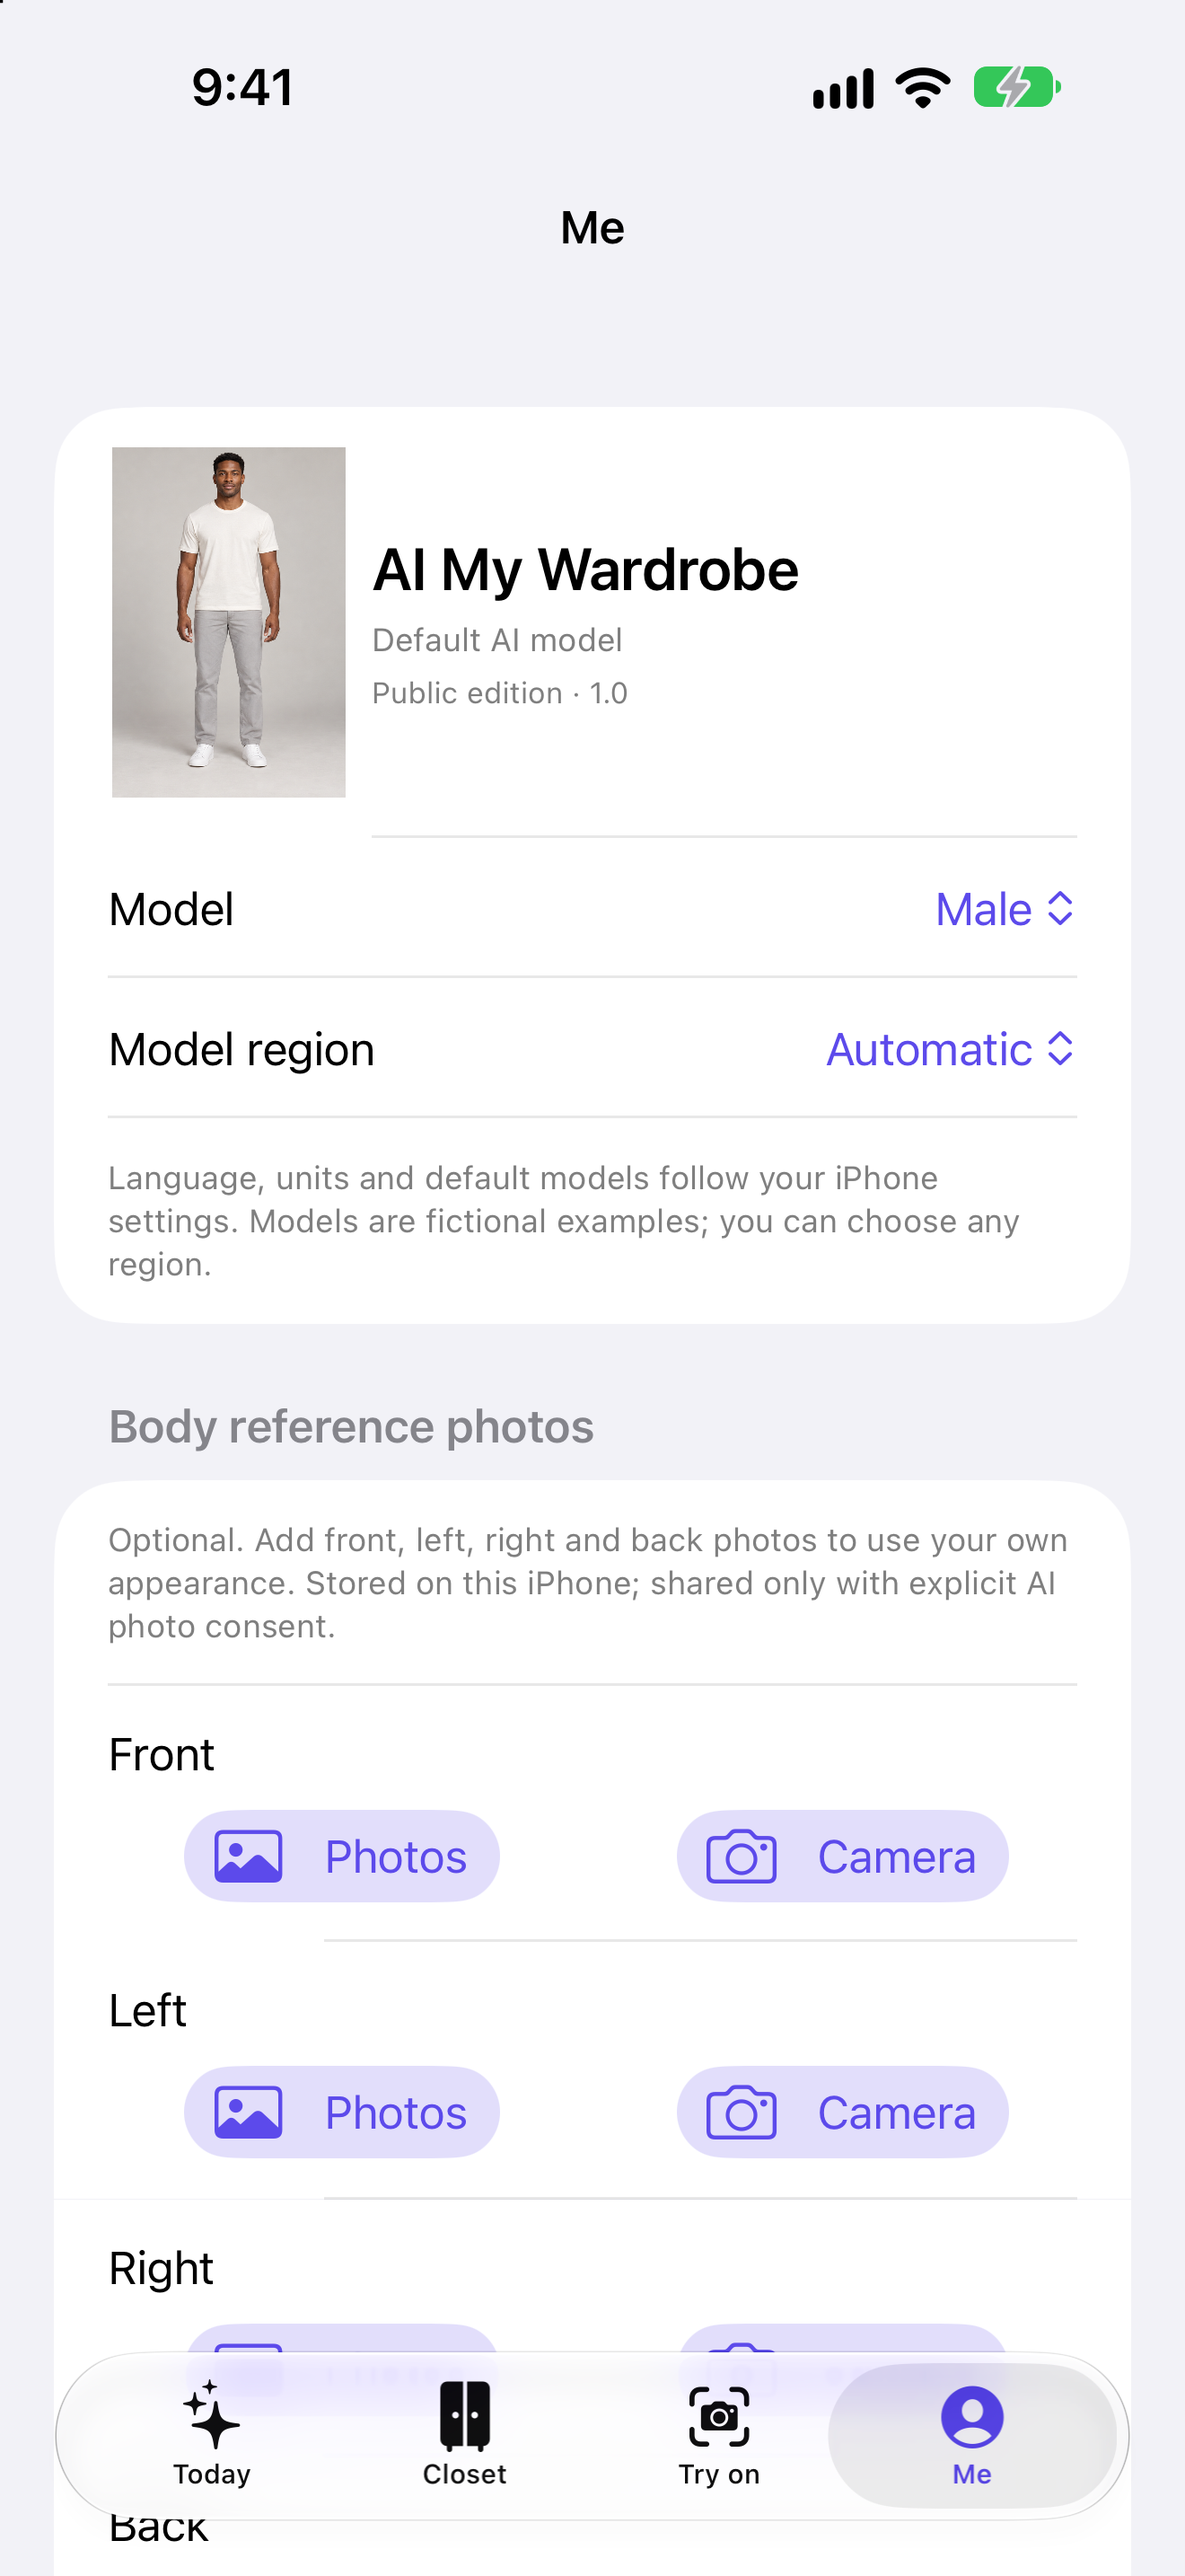
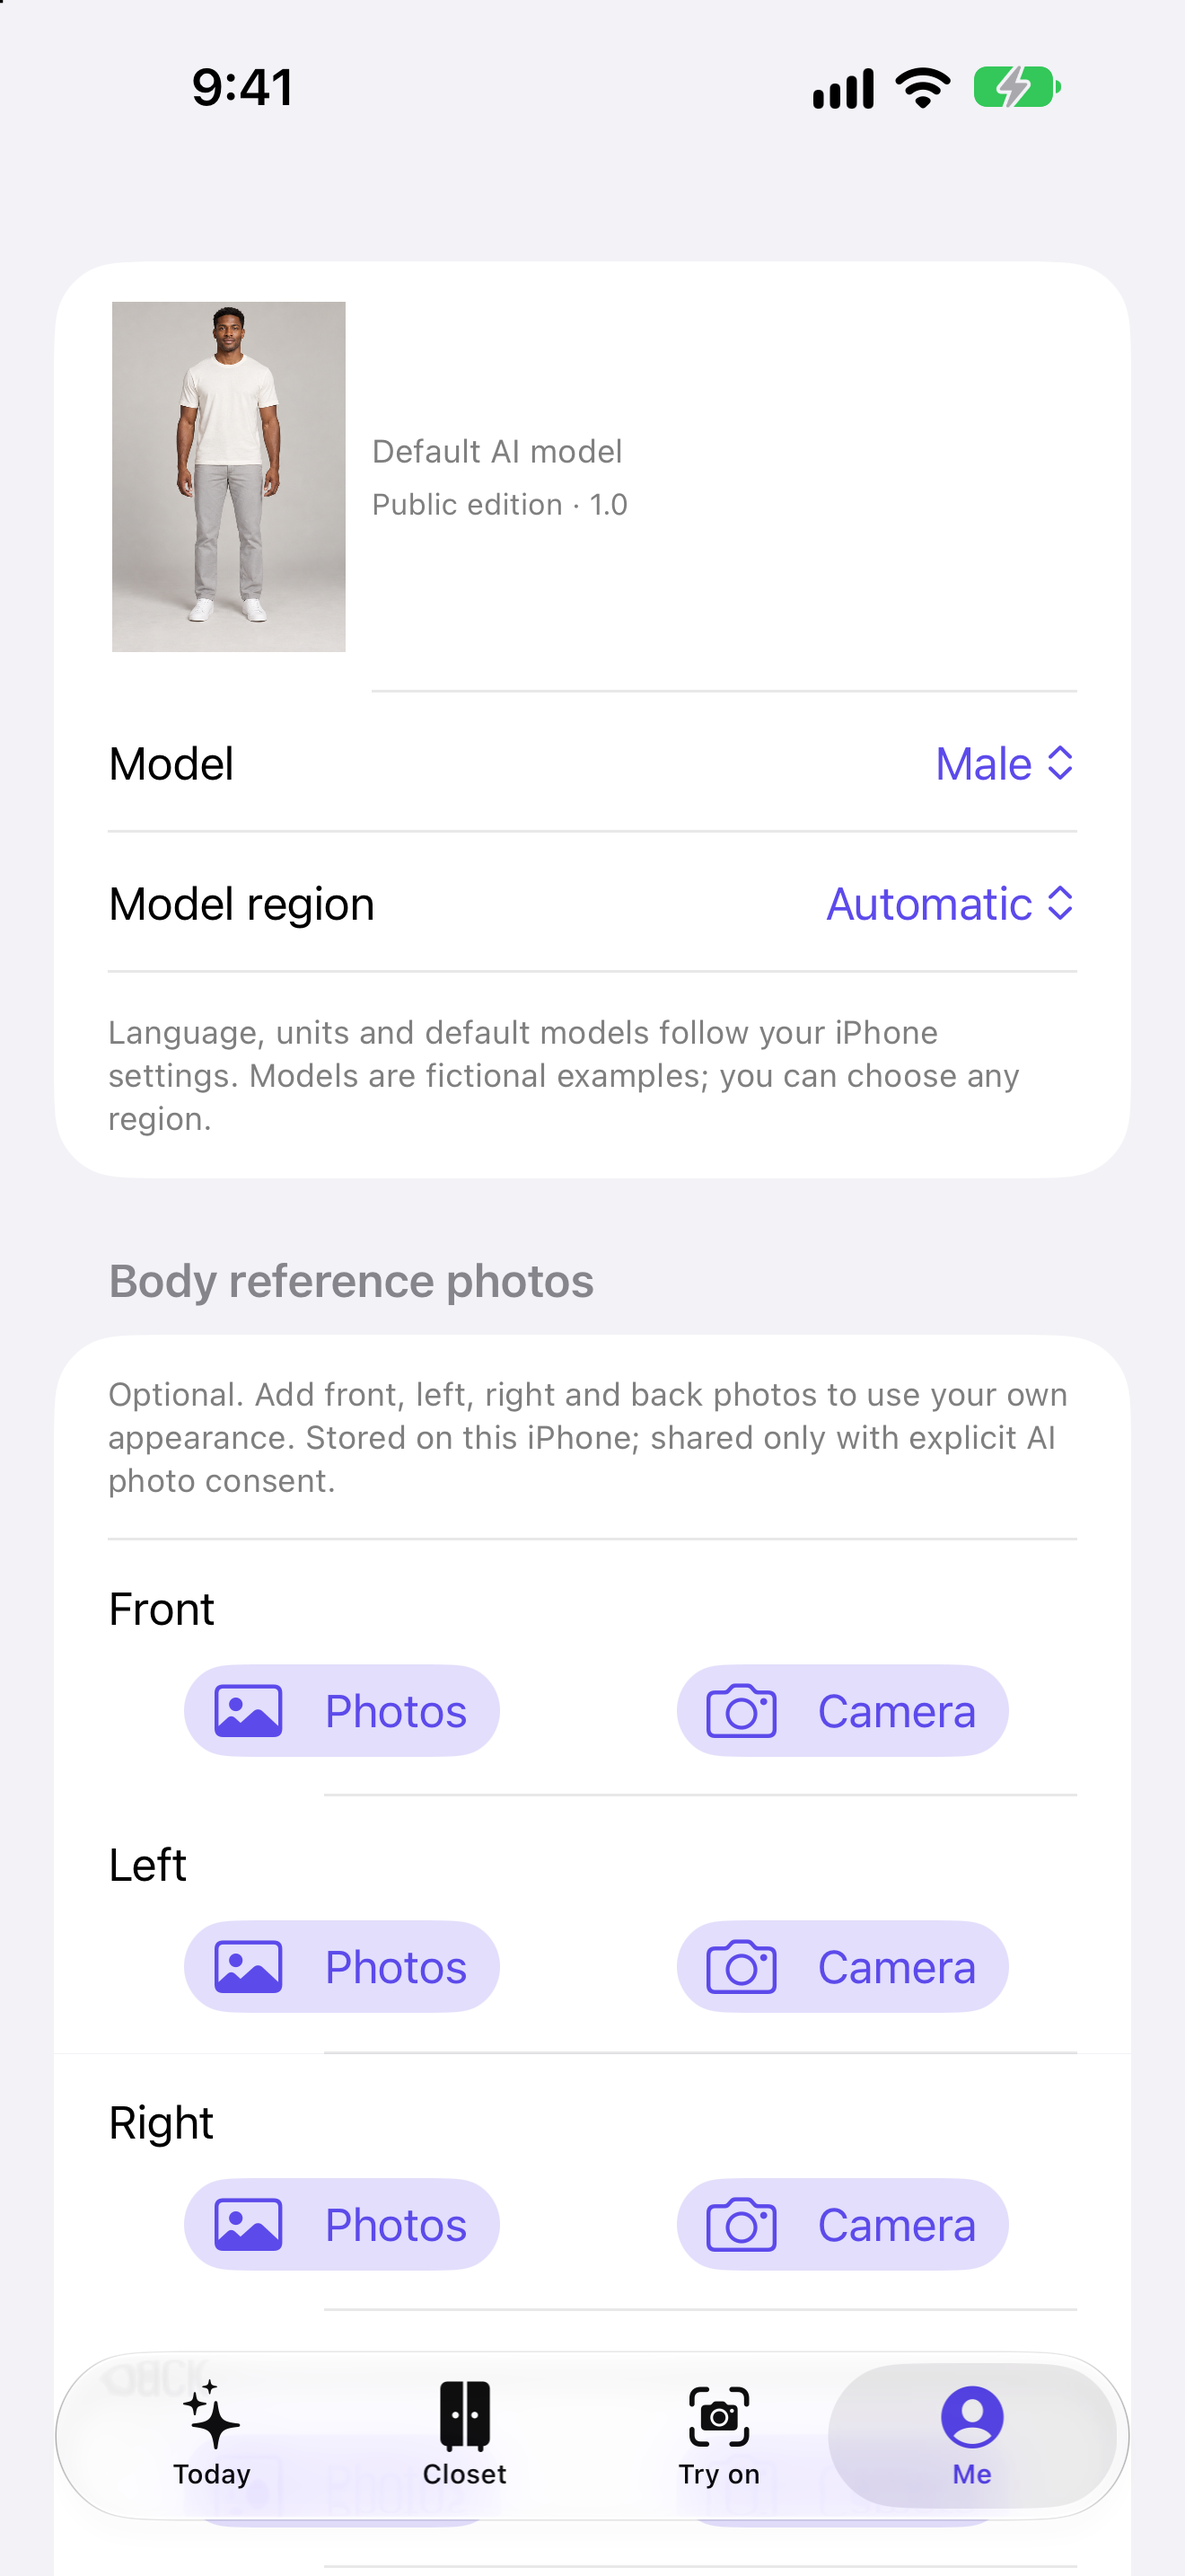
Remove profile headings and verify permission denial, erasure and HEIC import

diff --git a/WardrobeUITests/WardrobeUITests.swift b/WardrobeUITests/WardrobeUITests.swift
@@ -73,6 +73,45 @@ final class WardrobeUITests: XCTestCase {
         checkRealMicrophone(language: "en", region: "en_US")
     }
 
+    @MainActor func testIsolatedDataDeletionAndEmptyCloset() {
+        let app = XCUIApplication()
+        app.launchArguments = ["-ui-testing", "-AppleLanguages", "(en)", "-AppleLocale", "en_US"]
+        app.launch()
+        app.tabBars.buttons.element(boundBy: 1).tap()
+        XCTAssertTrue(app.buttons["closet.item.white-oxford"].waitForExistence(timeout: 5))
+        app.tabBars.buttons.element(boundBy: 3).tap()
+        let erase = app.buttons["profile.erase"]
+        for _ in 0..<6 where !erase.isHittable { app.swipeUp() }
+        XCTAssertTrue(erase.isHittable)
+        erase.tap()
+        let confirm = app.buttons["profile.confirmErase"].firstMatch
+        XCTAssertTrue(confirm.waitForExistence(timeout: 5))
+        confirm.tap()
+        app.tabBars.buttons.element(boundBy: 1).tap()
+        XCTAssertFalse(app.buttons["closet.item.white-oxford"].exists)
+        app.tabBars.buttons.element(boundBy: 0).tap()
+        app.tabBars.buttons.element(boundBy: 1).tap()
+        XCTAssertFalse(app.buttons["closet.item.white-oxford"].exists, "Deleted demo must not automatically reappear")
+        app.terminate()
+    }
+
+    @MainActor func testDeniedMicrophoneStillAllowsTyping() {
+        // The runner revokes microphone permission for this test app before execution.
+        let app = XCUIApplication()
+        app.launchArguments = ["-ui-testing", "-AppleLanguages", "(en)", "-AppleLocale", "en_US"]
+        app.launch()
+        XCTAssertTrue(app.buttons["chat.microphone"].waitForExistence(timeout: 10))
+        app.buttons["chat.microphone"].tap()
+        XCTAssertTrue(app.alerts.firstMatch.waitForExistence(timeout: 10))
+        XCTAssertNotEqual(app.buttons["chat.microphone"].value as? String, "listening")
+        app.alerts.firstMatch.buttons.firstMatch.tap()
+        let input = app.textFields["chat.input"].exists ? app.textFields["chat.input"] : app.textViews["chat.input"]
+        input.tap(); input.typeText("A casual outfit without microphone")
+        app.buttons["chat.send"].tap()
+        XCTAssertTrue(app.staticTexts["A casual outfit without microphone"].waitForExistence(timeout: 5))
+        app.terminate()
+    }
+
     @MainActor func testSevenLanguagesRealMicrophoneLifecycle() {
         for (language, region) in [("en","en_US"),("zh-Hans","zh_CN"),("zh-Hant","zh_TW"),("ja","ja_JP"),("fr","fr_FR"),("de","de_DE"),("es","es_ES")] {
             checkRealMicrophone(language: language, region: region)

diff --git a/AIWardrobe/SettingsViews.swift b/AIWardrobe/SettingsViews.swift
@@ -11,7 +11,6 @@ struct ProfileView: View {
                 HStack {
                     PhotoView(image: store.avatar).frame(width: 90, height: 130)
                     VStack(alignment: .leading, spacing: 6) {
-                        Text(L("appName")).font(.title2.weight(.semibold))
                         Text(L(store.usesDefaultAvatar ? "defaultModel" : "personalModel")).font(.caption).foregroundStyle(.secondary)
                         Text(L("publicEdition")).font(.caption2).foregroundStyle(.secondary)
                     }
@@ -52,13 +51,13 @@ struct ProfileView: View {
                 NavigationLink(L("privacyPolicy")) { LegalView(terms: false) }
                 NavigationLink(L("terms")) { LegalView(terms: true) }
                 Link(L("support"), destination: URL(string: "https://github.com/wliao78/AI-Wardrobe-Support/issues")!)
-                Button(L("deleteAll"), role: .destructive) { erase = true }
+                Button(L("deleteAll"), role: .destructive) { erase = true }.accessibilityIdentifier("profile.erase")
                 Text(L("localStorageNote")).font(.caption).foregroundStyle(.secondary)
             }
         }
-        .navigationTitle(L("profile")).navigationBarTitleDisplayMode(.inline)
+        .navigationTitle("").navigationBarTitleDisplayMode(.inline)
         .confirmationDialog(L("deleteAll"), isPresented: $erase, titleVisibility: .visible) {
-            Button(L("deleteAll"), role: .destructive) { store.erase() }
+            Button(L("deleteAll"), role: .destructive) { store.erase() }.accessibilityIdentifier("profile.confirmErase")
         } message: { Text(L("deleteAllWarning")) }
         .confirmationDialog(L("removeBodyPhotos"), isPresented: $removePhotos) {
             Button(L("delete"), role: .destructive) { store.data.bodyPhotos = [:]; store.save() }

diff --git a/AIWardrobe/AppModel.swift b/AIWardrobe/AppModel.swift
@@ -125,7 +125,7 @@ struct AIWardrobeApp: App {
     @State private var store: WardrobeStore = {
         #if DEBUG
         if ProcessInfo.processInfo.arguments.contains("-ui-testing") {
-            return WardrobeStore(folder: URL.temporaryDirectory.appending(path: "WardrobeUITests-" + UUID().uuidString))
+            return WardrobeStore(folder: URL.temporaryDirectory.appending(path: "WardrobeUITests-" + UUID().uuidString), resetAI: {})
         }
         #endif
         return WardrobeStore()

diff --git a/AppStore/RELEASE.md b/AppStore/RELEASE.md
@@ -11,20 +11,20 @@ This is preparation material, not a statement that the app is submitted or appro
 - Fixture tests: six text-provider adapters, two image adapters, explicit consent gates, HTTPS endpoint validation, synthetic connection-test privacy and sanitized HTTP errors.
 - Private source repository and public support-only website created independently.
 - Seven localized store descriptions fit field character limits.
-- English, Japanese, French, Spanish and Traditional Chinese version descriptions are saved in App Store Connect; the latter four were rechecked after a page reload against their source text. Screenshots for non-English locales are not yet uploaded. Store screenshot capture intermittently times out; do not confuse that with a failed metadata save.
+- English, Japanese, French, Spanish and Traditional Chinese version descriptions are saved in App Store Connect; the latter four were rechecked after a page reload against their source text. Each of these five locales has four independent screenshots, ordered Today, Closet, Try on, Me. All five sets and their order were rechecked after reload. All seven local Me screenshots were recaptured after removing both its large app-name heading and page title; the five existing store sets have been replaced with the new Me screenshot.
 
 ## Gates before submission
 
-- App Store Connect record exists: `6818665093`, English name `AI My Wardrobe`, bundle `com.tinyworm.AIWardrobe.Public`. English subtitle, Lifestyle category, description, URLs and review information are saved. No build is uploaded yet.
+- App Store Connect record exists: `6818665093`, English name `AI My Wardrobe`, bundle `com.tinyworm.AIWardrobe.Public`. English subtitle, Lifestyle category, description, URLs and review information are saved. Release 1.0 (1) was uploaded successfully using Xcode; Apple processing and build selection remain to be confirmed in the store UI. No review submission or release has occurred.
 - Simplified Chinese name attempts (`AI衣橱`, `AI我的衣橱`, `AI我的衣橱·穿搭助手`) returned later name-conflict errors despite transient Saved feedback. Reloaded language menus still exclude Simplified Chinese; do not claim these names persisted. The user approved the latest longer Chinese candidate. Traditional Chinese, Japanese, French and Spanish appear in the saved language menu; German has also returned a name-conflict error. Reconcile actual server state before submission.
-- Upload the final archive. Repeat archive after source or localization changes.
+- Current archive `/tmp/AIWardrobe-Public-Release-20261002-v2.xcarchive` contains the latest profile-heading removal, public bundle, portrait-only iPhone target, iOS 18 minimum, WeatherKit entitlement and non-exempt encryption set to false. Xcode export/upload succeeded (`/tmp/aiwardrobe-upload-v2.log`). Repeat archive and increment build number if shipping source changes again.
 - Inspect all localized screenshots and upload matching language sets. Current capture size: 1320 × 2868, accepted by Apple's iPhone 6.9-inch specification.
 - Validate core interactions on compact and large iPhones, permission denial, photo import/cutout and data deletion. Verify any unresolved tests before marking complete.
-- Exercise live provider text and image requests with explicitly authorized test credentials and costs. Fixture success does not establish live provider availability.
-- Verify WeatherKit App ID service and a physical-device weather request for this public bundle.
+- Live provider text and image requests remain unverified. The user explicitly declined supplying test credentials at this stage; do not use private-edition credentials or claim fixture results establish live availability.
+- WeatherKit capability and App Service are both visibly enabled for the exact public App ID in Apple Developer. A physical-device request remains unverified.
 - Supply truthful review contact details; decide whether to provide a dedicated limited reviewer API key for optional online features. Never embed a personal key in the app or repository.
 - Privacy questionnaire published after the user's explicit accuracy confirmation: photos/videos, other user content and provider account identifier, linked to the user, no tracking or advertising. Approximate location is disclosed in the policy and used only with Apple Weather; it is not retained by the developer or transmitted to AI providers. Apple-framework collection is not declared as developer collection.
-- Complete age-rating, content-rights and export-compliance questionnaires using actual app behavior. AI content can vary; do not auto-answer every content category as absent without assessment.
+- Age rating is saved with an 18+ override, explicitly approved by the user for this first release. Apple displays 18+ in 173 territories, A18 in Brazil, 19+ in Korea and corresponding older-system ratings. The ordinary clothing-organizer content/features were assessed against Apple's definitions; no public UGC feed, person-to-person chat, browser, advertising, medical guidance, gambling or intended mature imagery is built in. This is not a guarantee of third-party AI output safety. User explicitly confirmed content rights; the third-party-content rights declaration is saved and rechecked after reload. Export compliance remains to be checked with Apple's processed build.
 - User explicitly confirmed Non-trader for the entire developer account. The account-wide declaration was submitted; Apple shows Digital Services Act compliance Active across 27 territories and identifies this app as non-trader. No Paid Apps Agreement was accepted.
 - All 175 countries/regions are selected and visibly show `Available on App Release`. Free pricing was saved for all 175 territories. Apple Silicon Mac and Vision Pro availability are disabled: this first release is scoped to iPhone. This is a release configuration, not present store discoverability; territory-specific compliance can still affect availability. Confirm localized names, release mode and privacy/support URLs. Submit for Apple review. Publication remains dependent on Apple's approval.
 
@@ -49,6 +49,10 @@ Me → Delete all local data removes the local wardrobe, messages, body photos, 
 - Twenty-eight full-resolution screenshots were recaptured after making the office catalog shoes match the brown penny loafers in the outfit. User enabled Chrome extension file-URL access; four English screenshots were uploaded and are visibly present in the 6.9-inch slot, automatically used for 6.5-inch. Other localized uploads and screenshot order remain to be completed.
 - Seven-language support pages now include optional voice usage and privacy disclosures. Public support commit: `c378c59`.
 - Eleven hosted tests passed with zero runtime warnings after adding actual HEIC encoding/decoding, orientation, corrupt-image rejection and pixel-limit tests: `/tmp/AIWardrobe-Public-Photo-Unit-12.xcresult`. Fixed renderer scale so the catalog is actually 768×768 pixels and photo compression does not multiply dimensions by device display scale. Photos-picker HEIC import remains a separate UI test gate.
+- Two additional real UI tests passed: denied microphone permission still allows typed conversation, and deleting the isolated test wardrobe leaves it empty across tab navigation: `/tmp/AIWardrobe-Public-Permissions-Erasure-14.xcresult`. The first erasure attempt failed on a nested SwiftUI test selector, corrected to firstMatch. DEBUG UI-test erasure uses a no-op credential reset and does not touch real provider keys.
+- Latest source, including removal of the profile's large app-name heading, passed eleven hosted checks and three general UI tests covering seven-language draft/send/tab navigation, clothing edit/zoom/favorite/camera dismissal and isolated erasure: `/tmp/AIWardrobe-Public-Latest-General-15.xcresult`.
+- After also removing the small profile navigation title, two navigation/erasure UI regressions passed with zero runtime warnings: `/tmp/AIWardrobe-Public-Profile-Navigation-17.xcresult`.
+- Actual Photos-picker HEIC import passed manually on the dedicated compact simulator, using an HEIC converted from the public demo navy polo, not personal photos. The processed garment was saved, searched, reopened and enlarged with complete sleeves/hem. Proof: `/tmp/AIWardrobe-heic-import-enlarge.png`. Physical-camera capture and public-bundle physical-weather requests remain unverified.
 
 ## References
 
